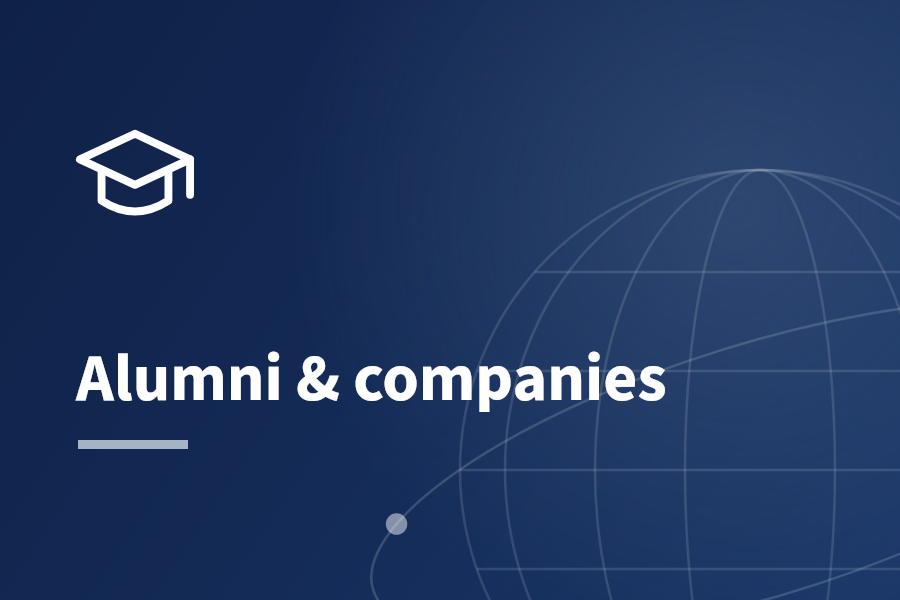
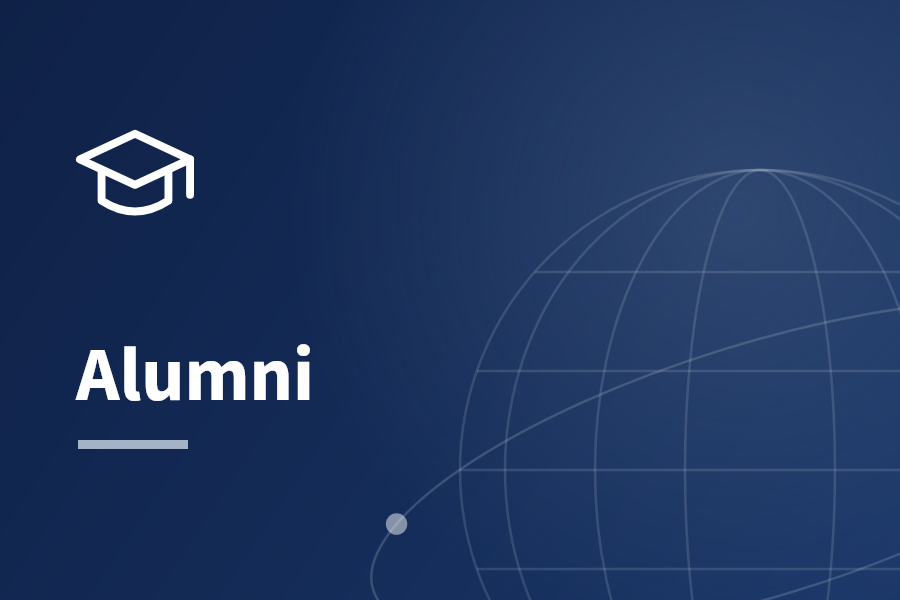
Moodle tiles without text (Tiles format adds the section name); Alumni tile

Changed region(s): [[0.0933, 0.57, 0.7467, 0.69]]

diff --git a/SETUP-GUIDE.md b/SETUP-GUIDE.md
@@ -128,7 +128,7 @@ The panel is at **https://admin.s-majbour.workers.dev** (its own Worker, `admin`
 
 AUB asked societies to use their Moodle page. Each Moodle module **embeds one page of this site** in its "embed view" (`?embed=1`: no menu or footer, a small English/عربي switch). The content still comes from the editing panel, so changes there appear in Moodle automatically.
 
-**Look:** like the IEEE page: a banner in the top section and the course in a tiles format (Course settings → Course format → the Grid/Tiles format), with one picture per section tile. The pictures are in `moodle/` (`tile-1-about.png` … `tile-6-alumni.png`); re-make them with `node scripts/make-moodle-assets.mjs`.
+**Look:** like the IEEE page: a banner in the top section and the course in a tiles format (Course settings → Course format → the Grid/Tiles format), with one picture per section tile. The pictures are in `moodle/no-text/` (icon only: the Tiles format already writes the section name on the picture) and `moodle/` (with the title built in); re-make them with `node scripts/make-moodle-assets.mjs`.
 
 **To add a section (must be a Page module):** Edit mode → **+ Add an activity or resource** → **Page** → name below → in **Page content** open the source code view (`</>`) and paste the frame code below with that section's address → under **Appearance**, untick "Display page name", "Display page description" and "Display last modified date" → Save and display.
 
